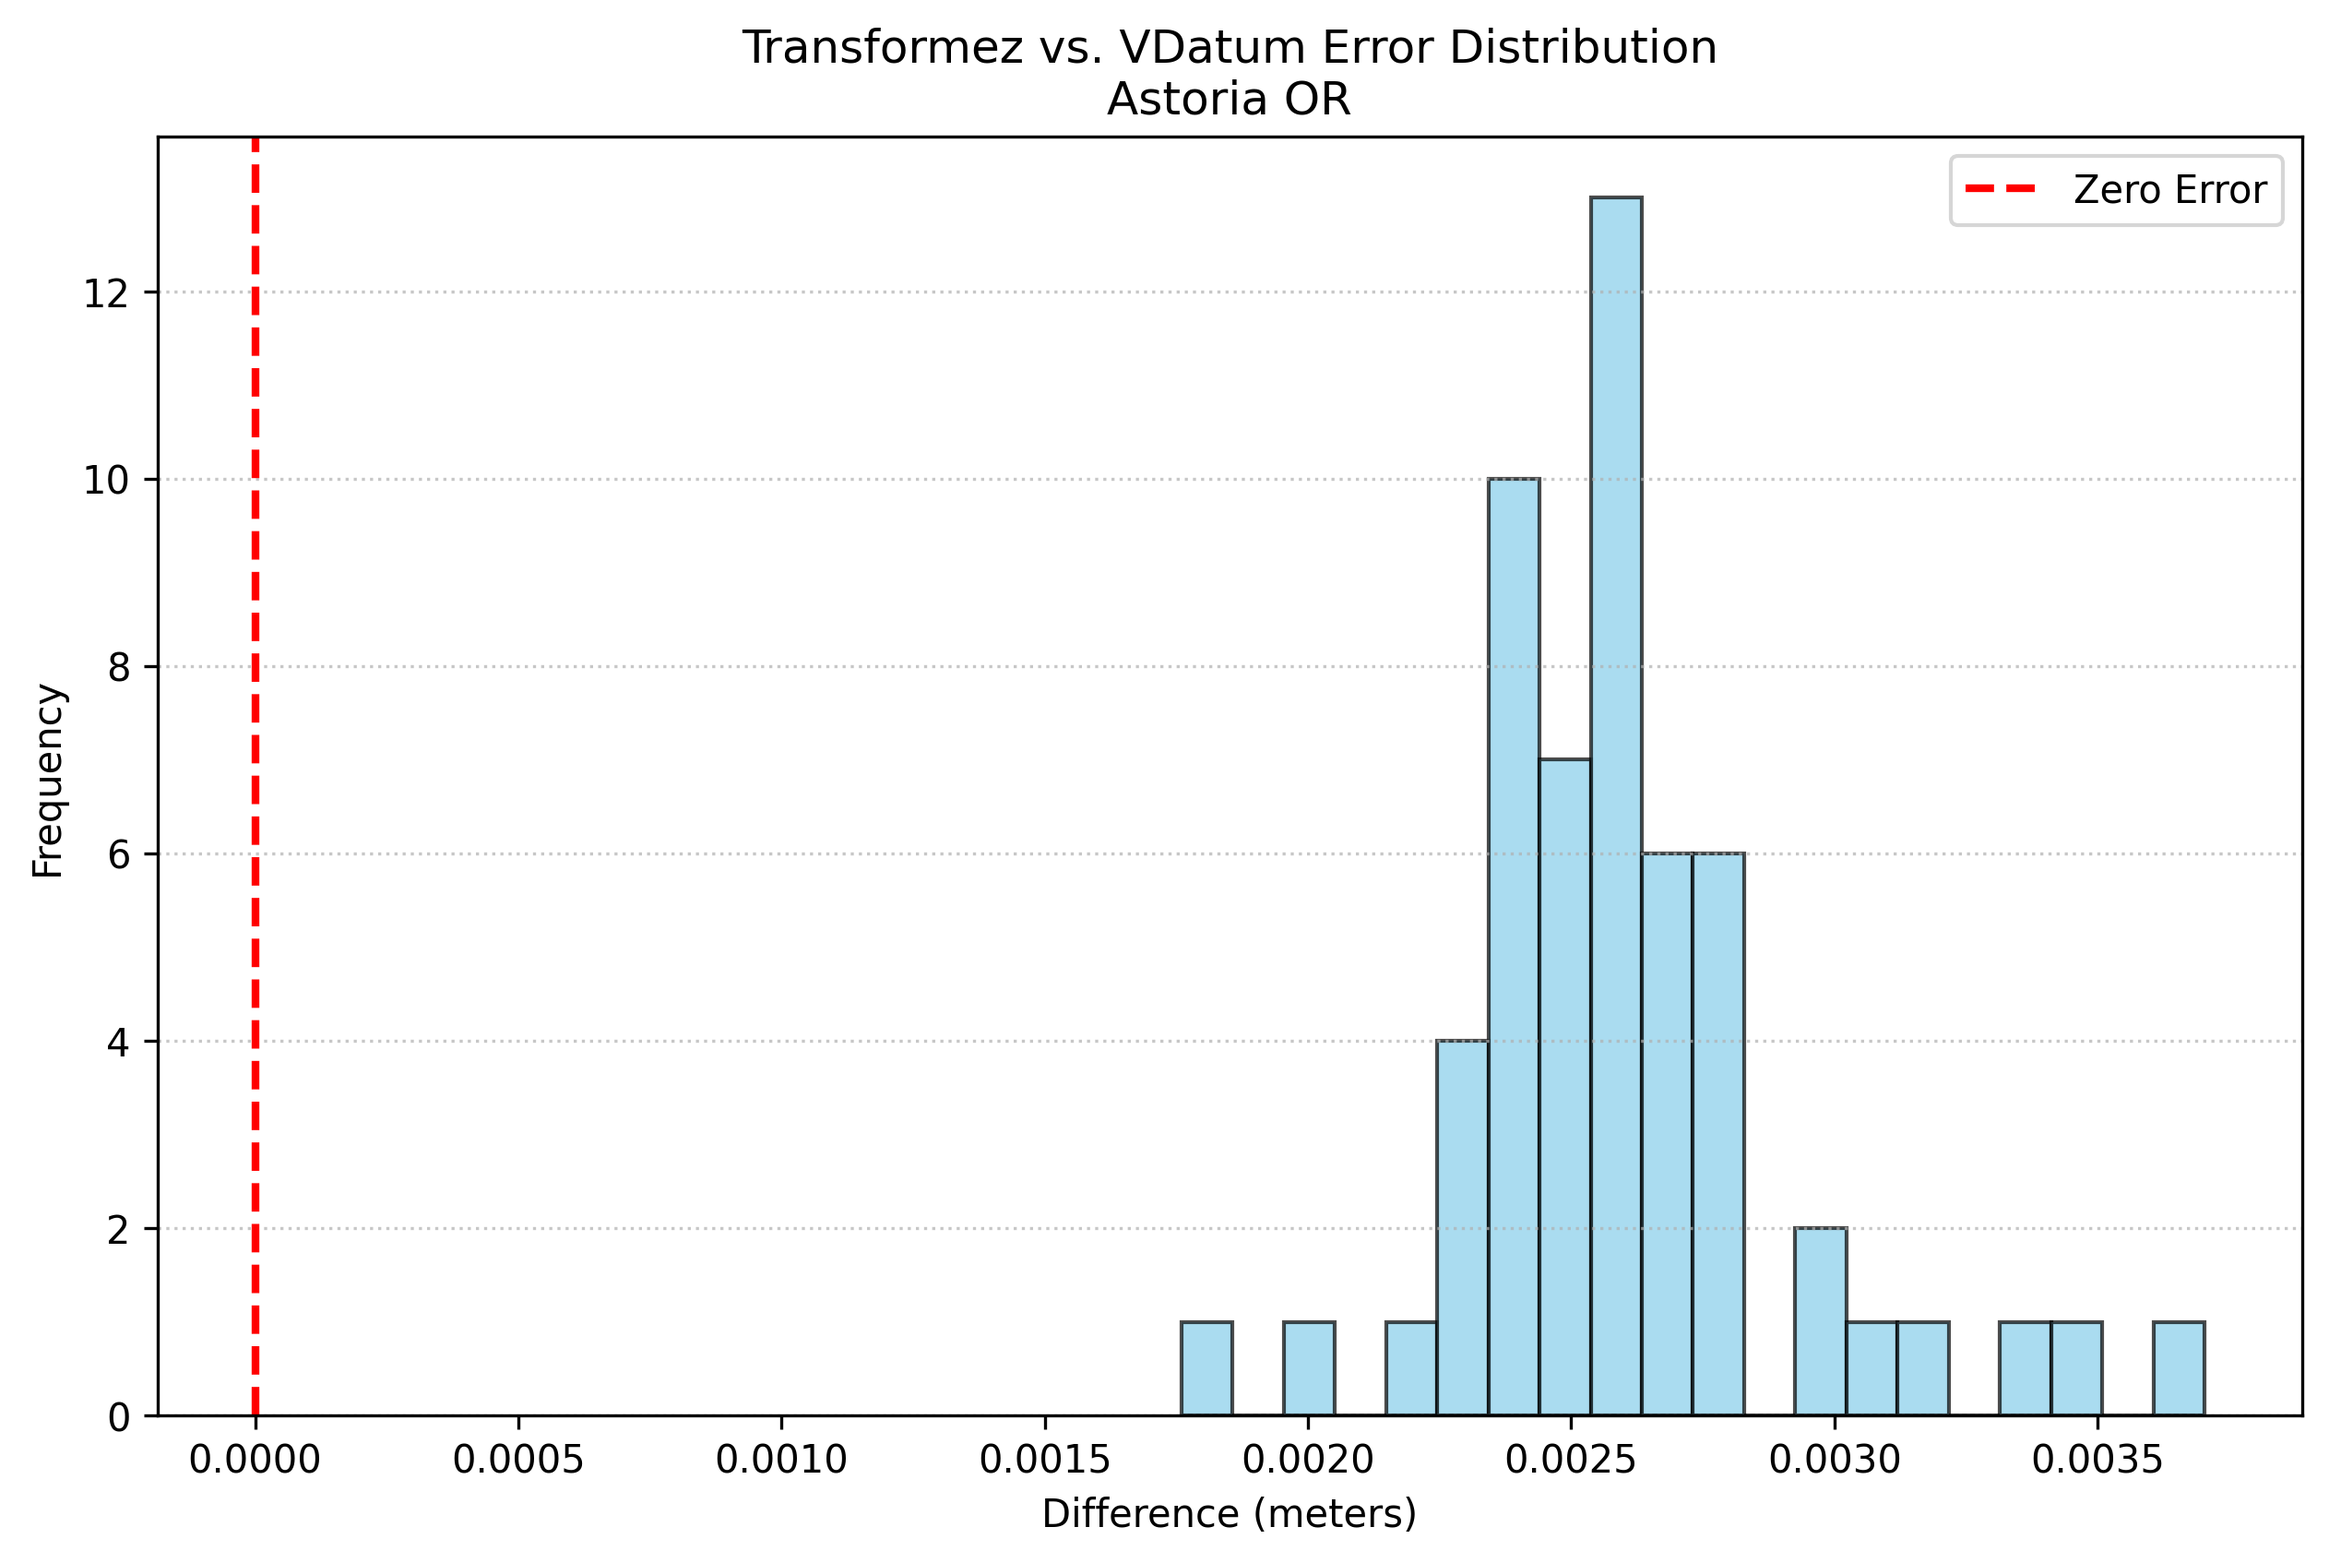
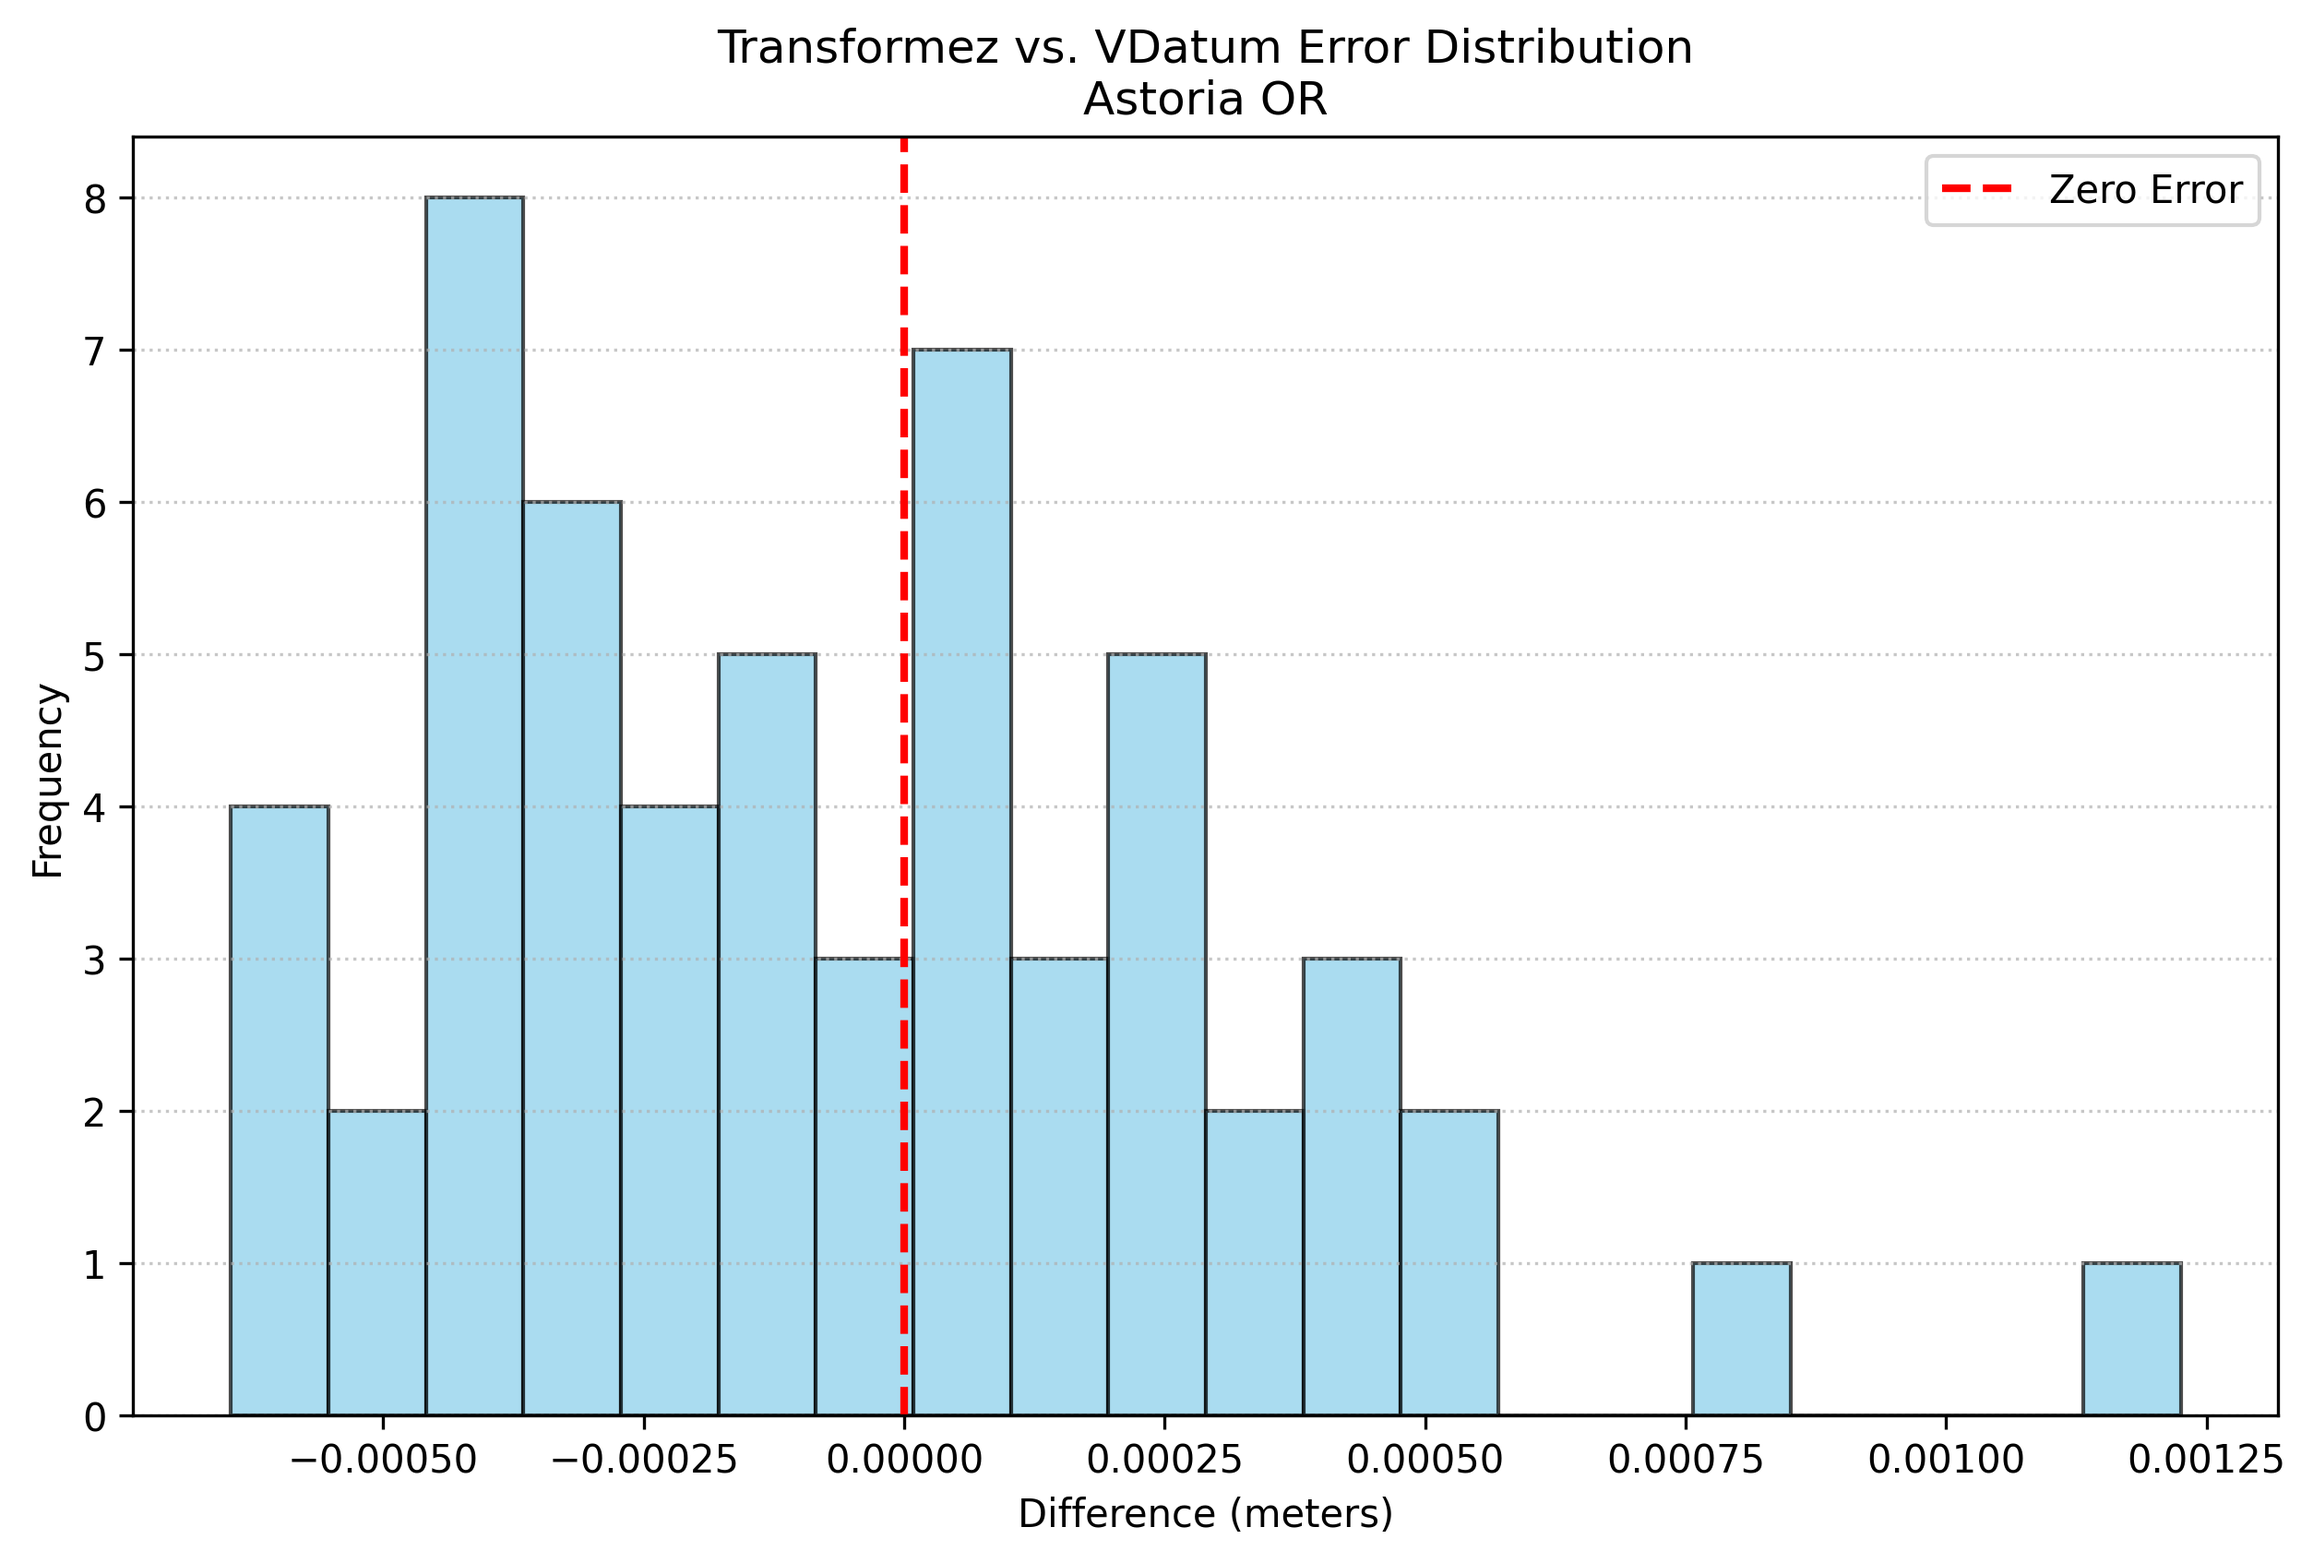
Refresh validation with htdp 3.5.0

diff --git a/tests/validation/validation.py b/tests/validation/validation.py
@@ -746,7 +746,7 @@ def generate_markdown_report(
     logger.info("Generating validation.md report...")
 
     md_lines = [
-        "# Validation & Accuracy",
+        "# 🏹 Validation & Accuracy",
         "",
         "Transformez is validated at several different levels because no single benchmark can fully describe the behavior of a coastal vertical-datum transformation engine. The tests below separate provider/grid accuracy, production coastal behavior, global-model agreement, and external HTDP integration.",
         "",
@@ -867,7 +867,9 @@ def generate_markdown_report(
     md_lines.extend(
         [
             "",
-            "![International Gauges]({intl_stats['image']})" if intl_stats else "",
+            "![International Gauges](../_static/validation_international_bars.png))"
+            if intl_stats
+            else "",
             "",
             "> **How to read this test:** Agreement at the decimeter scale is meaningful here because the comparison is between a gridded global ocean model and local station realizations, not two implementations of the same transformation grid. The test is primarily a validation of global fallback selection and physical plausibility.",
             "",

diff --git a/docs/source/user_guide/validation.md b/docs/source/user_guide/validation.md
@@ -8,12 +8,12 @@ These results should therefore be interpreted according to the purpose of each t
 
 The versions below record the Python packages and external geodetic engines resolved for this validation run. External-engine paths are included because HTDP and VDatum may be installed in multiple locations, and their software/data generation can materially affect reproducibility.
 
-| Component | Version | Source |
-| :--- | :--- | :--- |
-| **Transformez** | 1.0.0 | python environment |
-| **Fetchez** | 0.8.7 | python environment |
-| **HTDP** | 3.6.0 | resolved by Transformez |
-| **VDatum** | 4.8 | user |
+| Component | Version | Source | Resolved Path |
+| :--- | :--- | :--- | :--- |
+| **Transformez** | 0.6.1.dev45+gb1ba6a427.d20260910 | python environment | — |
+| **Fetchez** | 0.8.8.dev2+gcb3338f60.d20260910 | python environment | — |
+| **HTDP** | 3.5.0 | resolved by Transformez | `/home/ncei/.local/share/transformez/bin/htdp_3.5.0` |
+| **VDatum** | 4.8 | user | `/home/ncei/.local/share/transformez/vdatum/4.8/vdatum.jar` |
 
 > **Reproducibility note:** Transformez and Fetchez versions identify the Python implementation under test. HTDP and VDatum identify the external reference engines used by Tests 2 and 4; their resolved paths are recorded to make it explicit which managed or system installation was selected.
 
@@ -59,10 +59,10 @@ The Chesapeake Bay case exercises an even denser overlap environment, with numer
 
 | Region | VDatum Region | RMSE | Mean Difference | Points | Validation Challenge |
 | :--- | :--- | :--- | :--- | :--- | :--- |
-| **Chesapeake Bay** | 5 | 0.023705 m | 0.008765 m | 84 | Estuary Shoaling |
-| **Astoria OR** | 6 | 0.002611 m | 0.002592 m | 56 | River Dynamics |
+| **Chesapeake Bay** | 5 | 0.022522 m | 0.004625 m | 84 | Estuary Shoaling |
+| **Astoria OR** | 6 | 0.000385 m | -0.000062 m | 56 | River Dynamics |
 | **Tampa Bay FL** | 4 | 0.000365 m | -0.000049 m | 94 | Complex Bay Geometry |
-| **Channel Islands CA** | 6 | 0.002810 m | 0.002795 m | 191 | Overlapping Legacy and Modern VDatum Coverage Chains |
+| **Channel Islands CA** | 6 | 0.000326 m | -0.000002 m | 191 | Overlapping Legacy and Modern VDatum Coverage Chains |
 
 > **How to read this test:** This is a numerical implementation comparison, not a requirement for one-to-one reproduction of every internal VDatum software decision. Near-zero differences indicate that Transformez and VDatum evaluated effectively the same package and path. Larger localized differences, especially in dense overlap regions, should be interpreted in the context of package selection, mixed xGEOID/NAVD88 mosaicing, backend HTDP versions, grid interpolation, and each engine's overlap policy. The Channel Islands result is a regression check on mixed-generation package pairing and xGEOID/frame normalization; Chesapeake Bay additionally stresses multi-package overlap ordering.
 
@@ -80,7 +80,7 @@ This is not an engine-equivalence test: the reference station values and the gri
 | Station | Published Offset | Transformez | Delta |
 | :--- | :--- | :--- | :--- |
 
-![International Gauges](../_static/validation_international_bars.png)
+![International Gauges](../_static/validation_international_bars.png))
 
 > **How to read this test:** Agreement at the decimeter scale is meaningful here because the comparison is between a gridded global ocean model and local station realizations, not two implementations of the same transformation grid. The test is primarily a validation of global fallback selection and physical plausibility.
 
@@ -93,7 +93,7 @@ These tests are best understood as integration or regression checks rather than 
 | Test Region | Calculated Shift | Challenge | Status |
 | :--- | :--- | :--- | :--- |
 | **Washington (Cross-Epoch)** | -0.2610 m | Crustal Velocity & Datum Offset | PASS |
-| **Japan (East Longitude)** | 1.9530 m | Eastern Hemisphere Longitude Parsing | PASS |
+| **Japan (East Longitude)** | 1.9518 m | Eastern Hemisphere Longitude Parsing | PASS |
 
 > **How to read this test:** PASS indicates that the HTDP integration produced a plausible, finite result through the expected execution path. Detailed verification of HTDP's geophysical model belongs to NGS; these cases primarily protect Transformez against wrapper, frame-ID, epoch, and longitude-regression errors.
 
